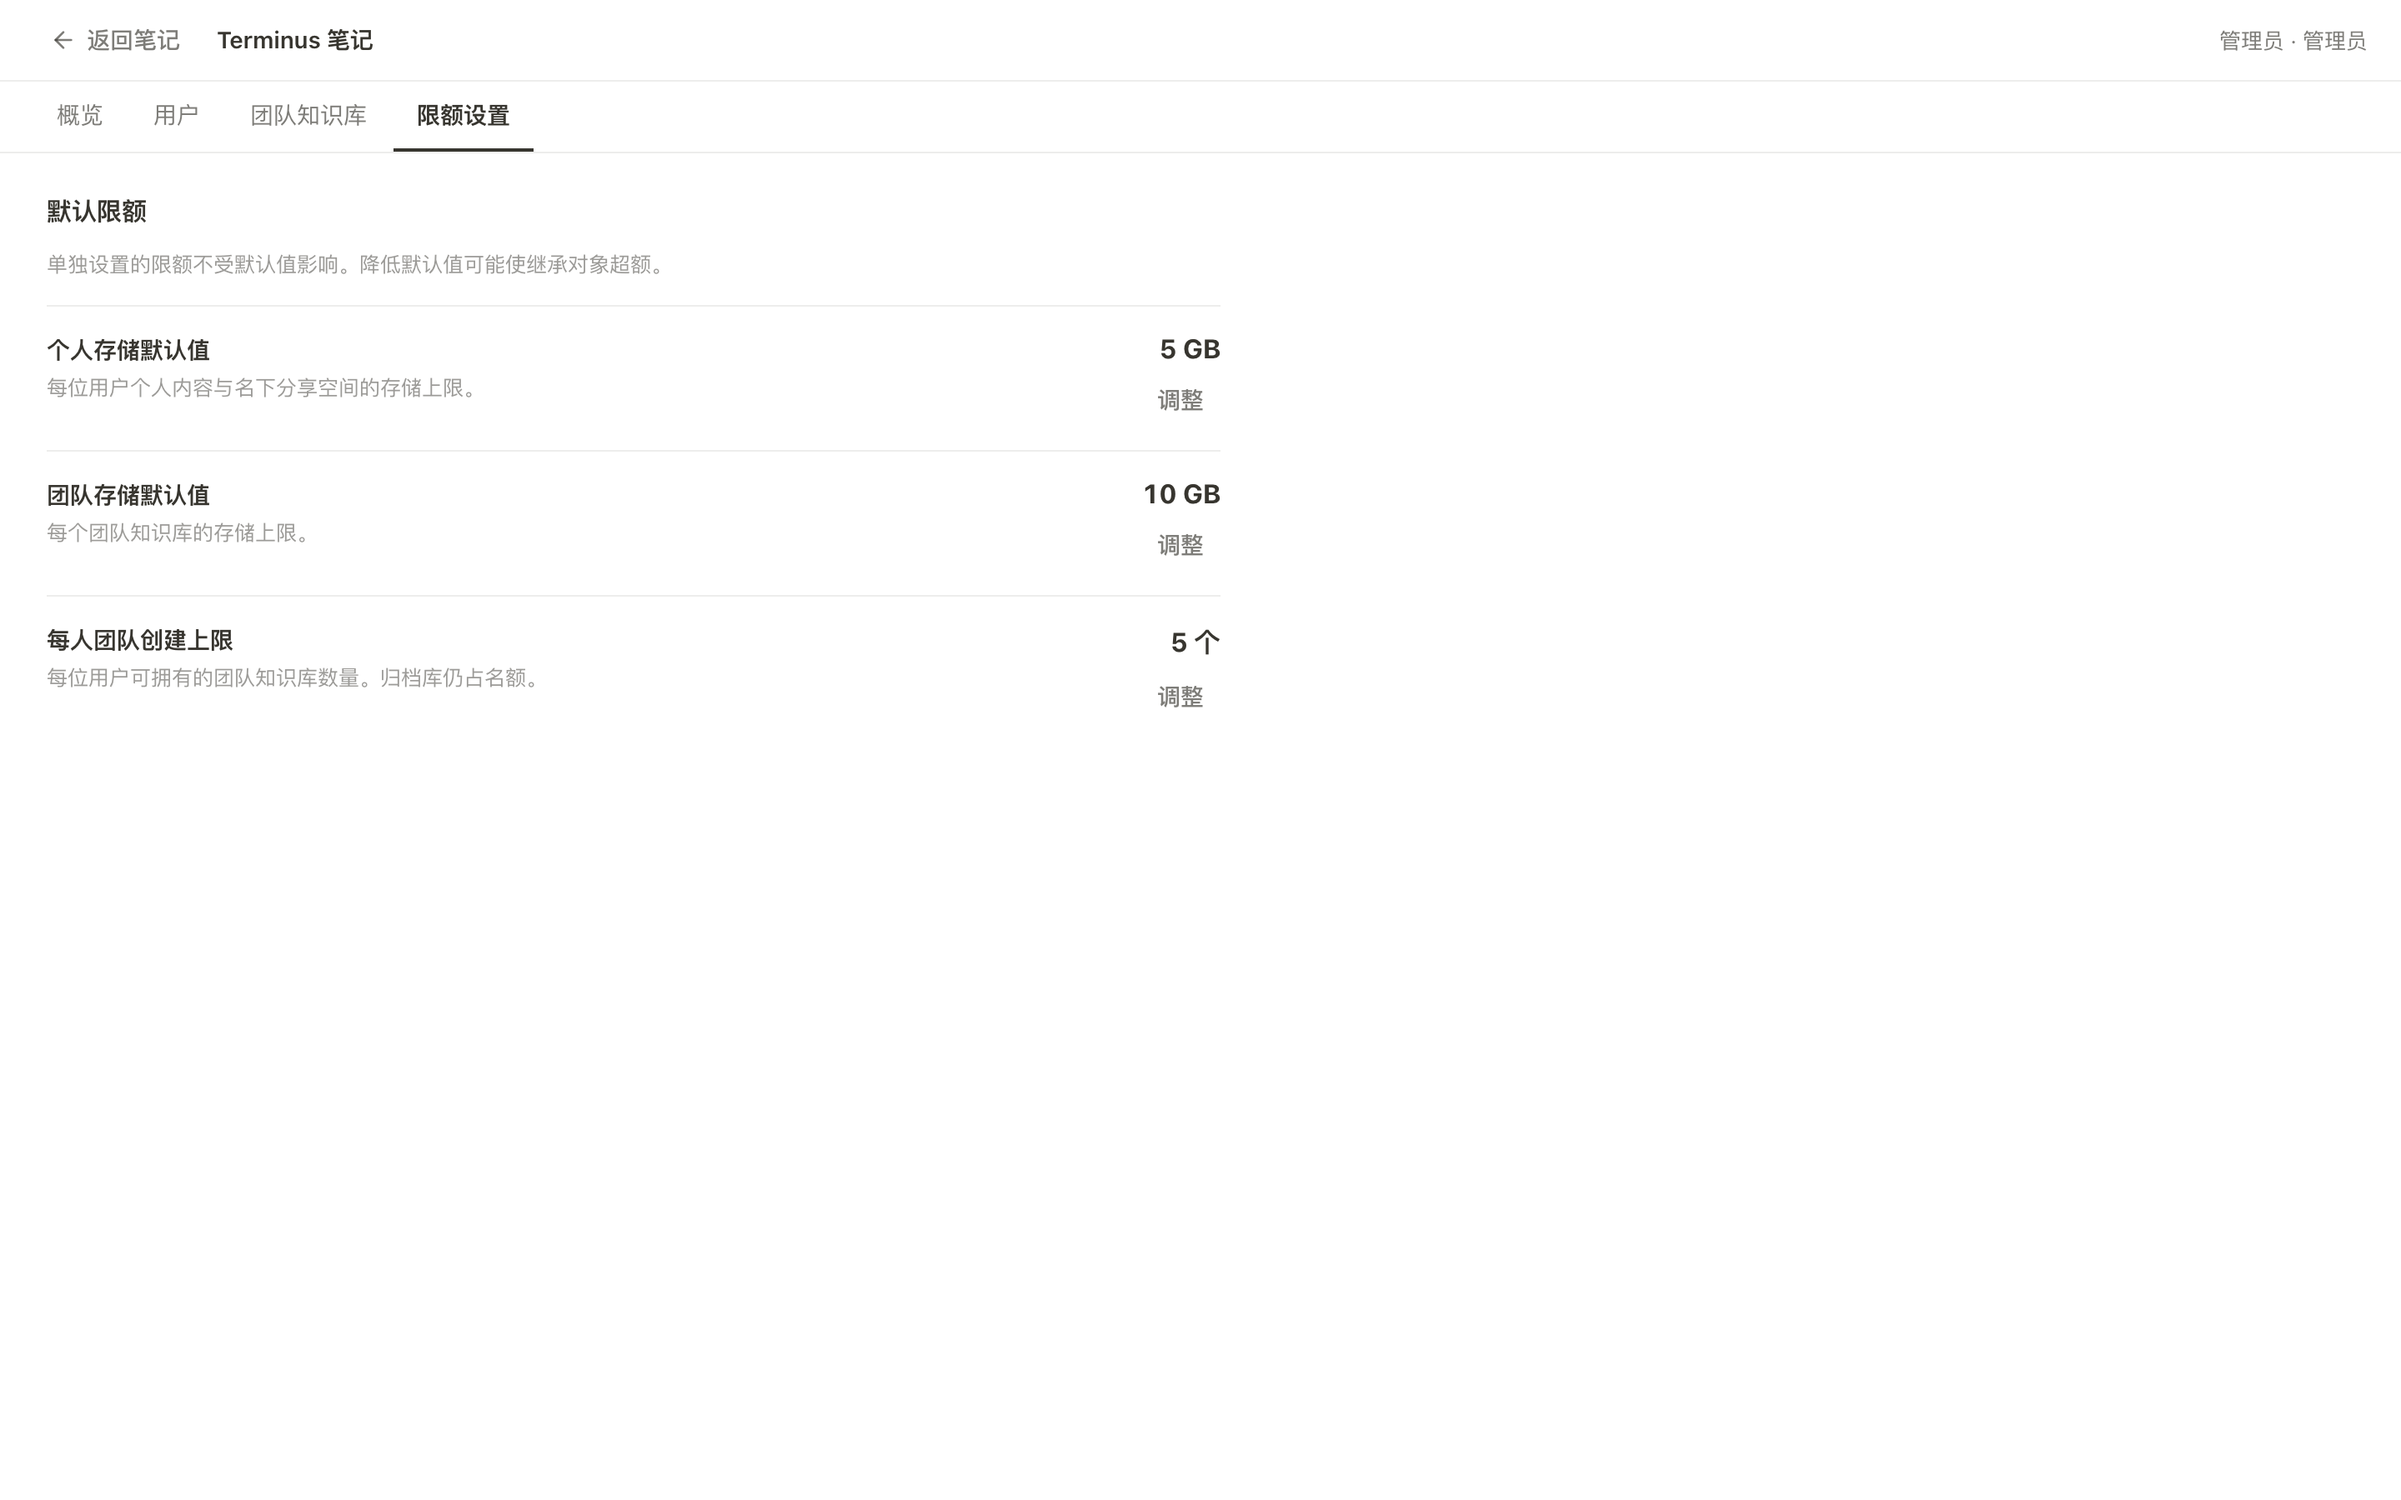
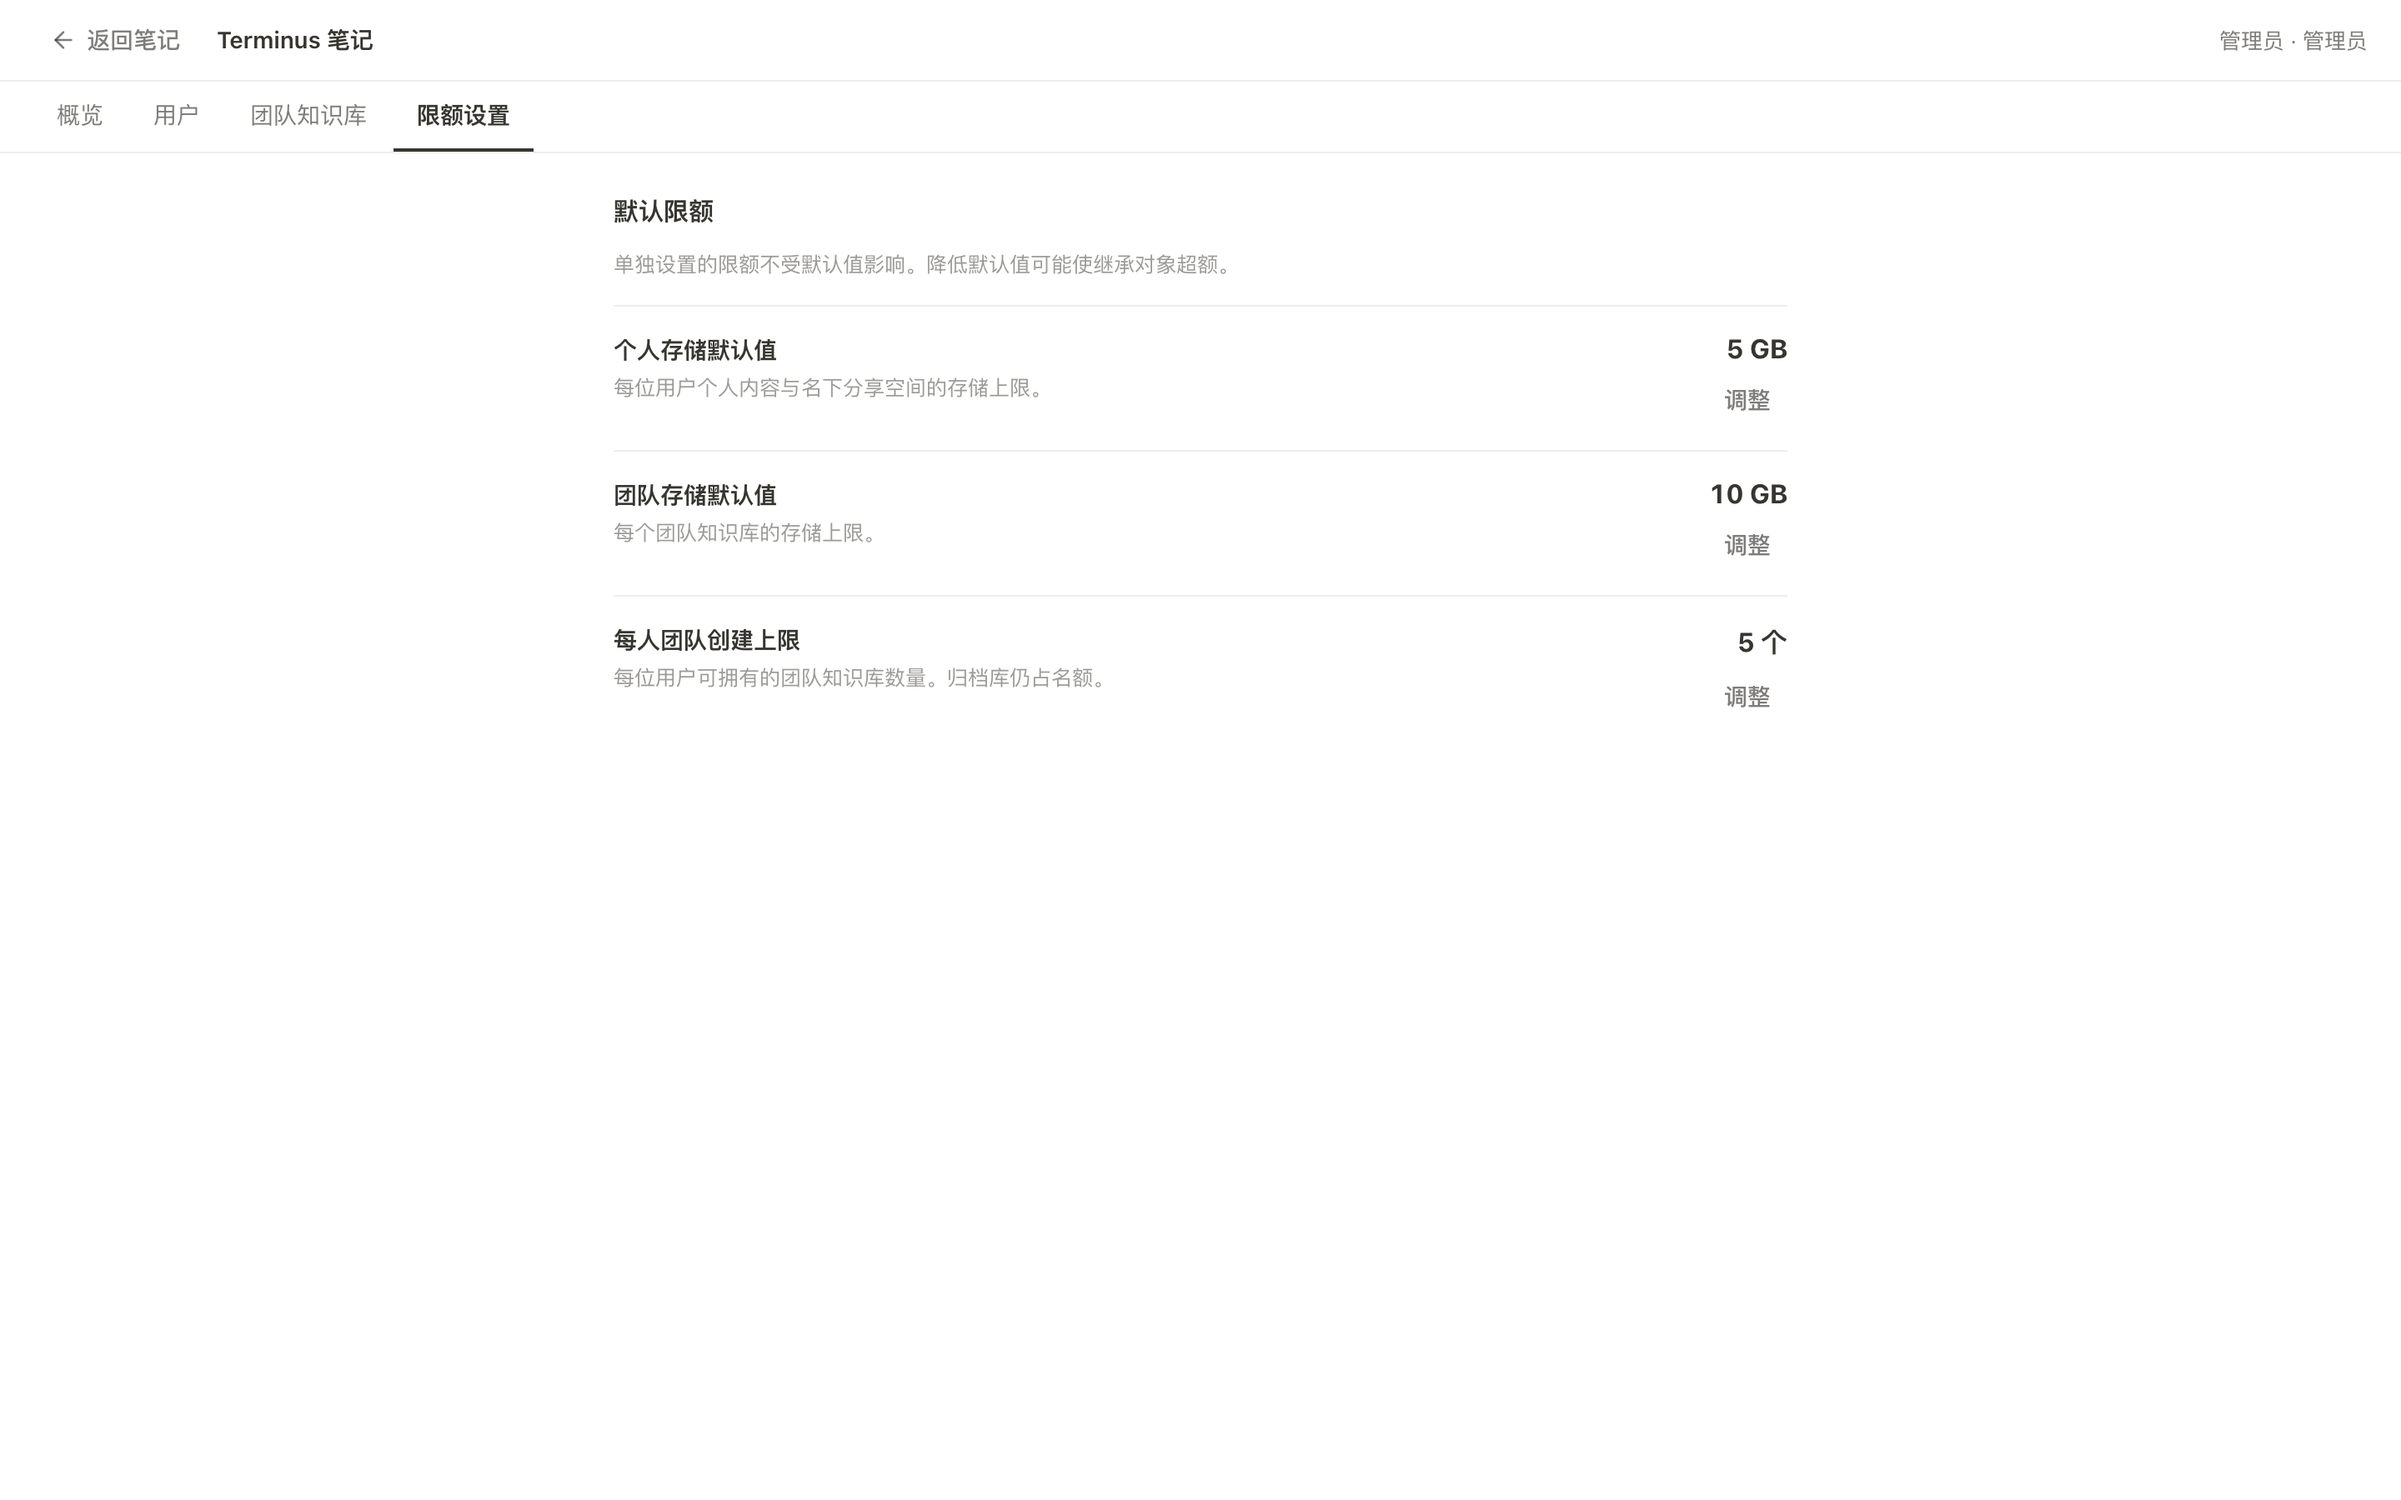
style(admin): center panel content within the console viewport

diff --git a/src/features/admin/admin.css b/src/features/admin/admin.css
@@ -28,7 +28,7 @@
 .admin__main { flex: 1; min-height: 0; display: flex; }
 
 /* ————— overview ————— */
-.ac-overview { flex: 1; overflow: auto; padding: 24px 28px; max-width: 1000px; }
+.ac-overview { flex: 1; overflow: auto; padding: 24px 28px; max-width: 1000px; margin-inline: auto; width: 100%; }
 .ac-tiles { display: grid; grid-template-columns: repeat(auto-fill, minmax(210px, 1fr)); gap: 12px; }
 .ac-tile {
   border: 1px solid var(--hairline, rgba(55,53,47,.09)); border-radius: 10px;
@@ -79,7 +79,7 @@
 .ac-dot { display: inline-block; width: 7px; height: 7px; margin-left: 6px; border-radius: 50%; background: var(--danger, #eb5757); vertical-align: 1px; }
 
 .ac-ins { overflow: auto; min-width: 0; }
-.ac-ins__inner { max-width: 640px; padding: 24px 28px 40px; }
+.ac-ins__inner { max-width: 640px; margin-inline: auto; padding: 24px 28px 40px; }
 .ac-ins__back { display: none; margin-bottom: 14px; }
 .ac-head { display: flex; align-items: center; gap: 14px; margin-bottom: 22px; }
 .ac-head h2 { margin: 0; font-size: 18px; }
@@ -116,7 +116,7 @@
 .ac-edit__actions { display: flex; justify-content: flex-end; gap: 8px; margin-top: 10px; }
 
 /* ————— quota settings ————— */
-.ac-quotas { flex: 1; overflow: auto; padding: 24px 28px; max-width: 760px; }
+.ac-quotas { flex: 1; overflow: auto; padding: 24px 28px; max-width: 760px; margin-inline: auto; width: 100%; }
 .ac-quotas h3 { margin: 0 0 6px; font-size: 15px; }
 .ac-qlist { list-style: none; margin: 16px 0 0; padding: 0; }
 .ac-qrow { display: grid; grid-template-columns: minmax(0, 1fr) auto; gap: 16px; padding: 16px 0; border-top: 1px solid var(--hairline, rgba(55,53,47,.09)); }
